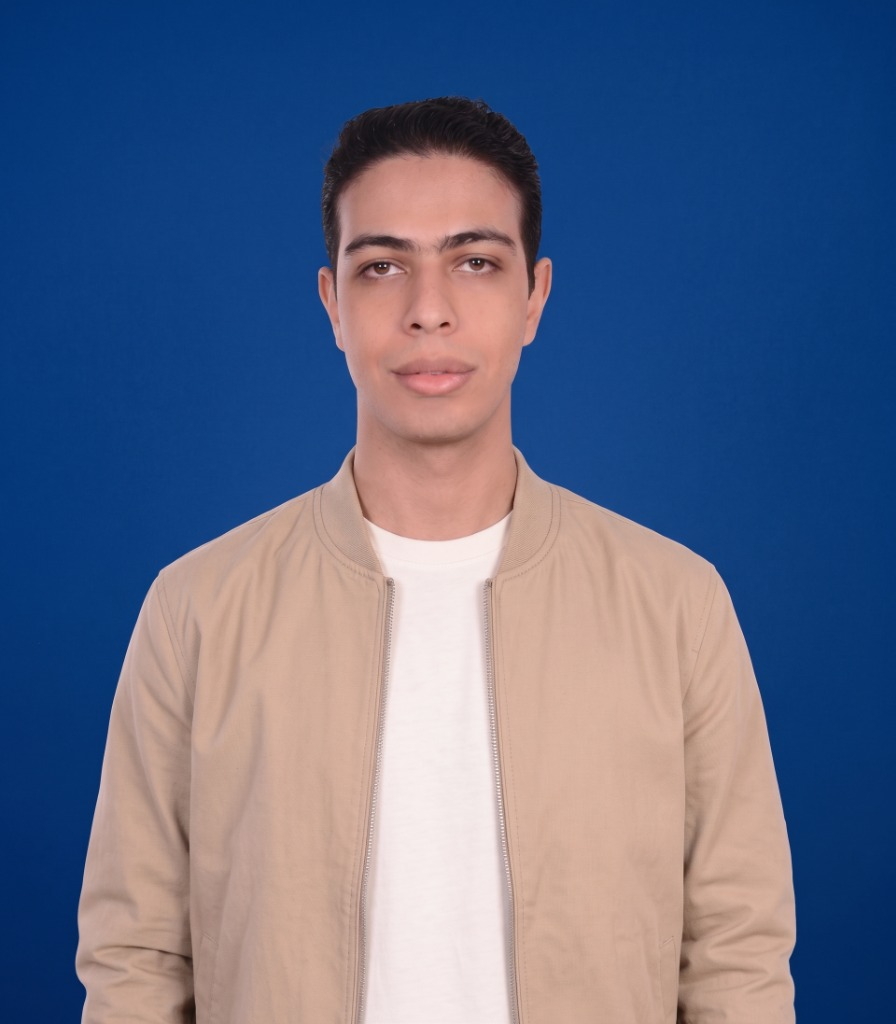
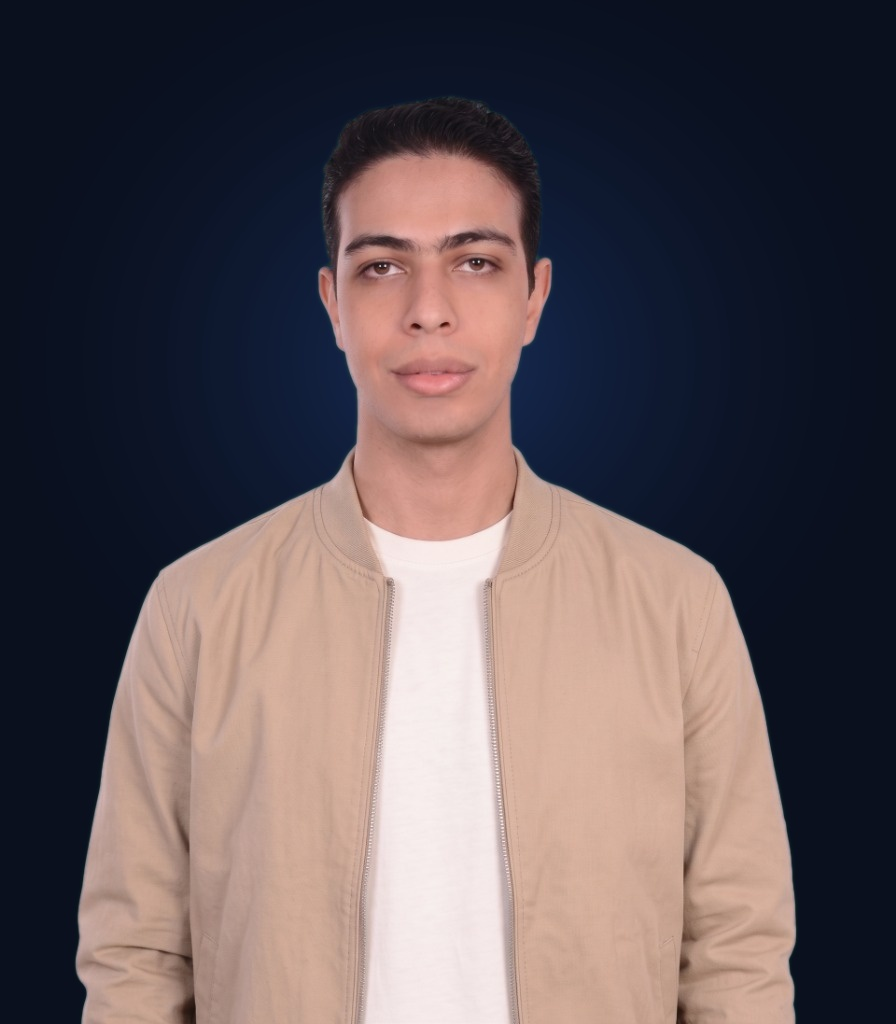
feat(hero): replace passport blue backdrop with executive studio lighting portrait and clean minimal frame

diff --git a/src/components/Hero.tsx b/src/components/Hero.tsx
@@ -154,76 +154,45 @@ export const Hero: React.FC<HeroProps> = ({ onOpenRecruiter, onOpenResume }) => 
 
           </motion.div>
 
-          {/* Profile Photo Column - Modern Floating Composition */}
+          {/* Profile Photo Column - Clean Executive Studio Presentation */}
           <motion.div
             initial={{ opacity: 0, scale: 0.98 }}
             animate={{ opacity: 1, scale: 1 }}
             transition={{ duration: 0.35, ease: [0.16, 1, 0.3, 1] }}
-            className="lg:col-span-5 flex justify-center order-1 lg:order-2"
+            className="lg:col-span-5 flex flex-col items-center justify-center order-1 lg:order-2"
           >
-            <div className="relative w-72 sm:w-80 lg:w-[350px] transform-gpu">
+            <div className="relative w-72 sm:w-80 lg:w-[340px] transform-gpu">
               
-              {/* Subtle Tech Glow Behind */}
+              {/* Soft Ambient Glow Behind Photo */}
               <div
-                className="absolute -inset-3 rounded-[3rem] opacity-35 dark:opacity-45 pointer-events-none transform-gpu"
+                className="absolute -inset-2 rounded-3xl opacity-30 dark:opacity-40 pointer-events-none transform-gpu"
                 style={{
-                  background: 'radial-gradient(circle at 50% 50%, rgba(59,130,246,0.35) 0%, rgba(14,165,233,0.2) 50%, transparent 75%)',
+                  background: 'radial-gradient(circle at 50% 40%, rgba(59,130,246,0.3) 0%, rgba(37,99,235,0.15) 50%, transparent 75%)',
                 }}
               />
-
-              {/* Floating Orbit Chip 1 (Top Corner) */}
-              <motion.div
-                initial={{ opacity: 0, y: -10 }}
-                animate={{ opacity: 1, y: 0 }}
-                transition={{ duration: 0.4, delay: 0.15 }}
-                className="absolute -top-3.5 -end-3 z-20 hidden sm:flex items-center gap-2 px-3.5 py-1.5 rounded-xl bg-slate-900/90 dark:bg-slate-950/90 backdrop-blur-md border border-sky-400/30 text-white shadow-xl"
-              >
-                <span className="w-2 h-2 rounded-full bg-sky-400 animate-ping shrink-0" />
-                <span className="text-xs font-bold font-mono tracking-tight text-sky-200">
-                  ⚡ LLMs & Healthcare RAG
-                </span>
-              </motion.div>
-
-              {/* Floating Orbit Chip 2 (Bottom Corner) */}
-              <motion.div
-                initial={{ opacity: 0, y: 10 }}
-                animate={{ opacity: 1, y: 0 }}
-                transition={{ duration: 0.4, delay: 0.2 }}
-                className="absolute -bottom-3.5 -start-3 z-20 hidden sm:flex items-center gap-2 px-3.5 py-1.5 rounded-xl bg-slate-900/90 dark:bg-slate-950/90 backdrop-blur-md border border-amber-400/30 text-white shadow-xl"
-              >
-                <Award className="w-3.5 h-3.5 text-amber-400 shrink-0" />
-                <span className="text-xs font-bold font-mono tracking-tight text-amber-200">
-                  {language === 'ar' ? '🏆 امتياز NTI (98%)' : '🏆 NTI 98% Distinction'}
-                </span>
-              </motion.div>
               
-              {/* Main Photo Card in High-End Modern Squircle */}
-              <div className="relative rounded-[2.5rem] overflow-hidden border-2 border-blue-500/30 dark:border-blue-500/40 bg-white dark:bg-slate-950 shadow-2xl p-1.5">
-                <div className="rounded-[2.2rem] overflow-hidden relative">
-                  <img
-                    src="/images/profile.jpg"
-                    alt={personalData.name[language]}
-                    className="w-full h-auto aspect-[4/5] object-cover object-top hover:scale-102 transition-transform duration-500"
-                  />
+              {/* Clean, Refined Portrait Frame (No Clutter, No Cutoffs) */}
+              <div className="relative rounded-3xl overflow-hidden border border-slate-200 dark:border-slate-800/80 bg-slate-950 shadow-2xl transition-all hover:border-blue-500/40 group">
+                <img
+                  src="/images/profile.jpg"
+                  alt={personalData.name[language]}
+                  className="w-full h-auto aspect-[4/5] object-cover object-top transition-transform duration-500 group-hover:scale-[1.02]"
+                />
+              </div>
 
-                  {/* Gradient Shadow Vignette at bottom */}
-                  <div className="absolute inset-x-0 bottom-0 h-28 bg-gradient-to-t from-slate-950/90 via-slate-950/40 to-transparent pointer-events-none" />
-
-                  {/* Integrated Modern Status Bar */}
-                  <div className="absolute bottom-3 inset-x-3 flex items-center justify-between px-3.5 py-2 rounded-2xl bg-slate-950/80 backdrop-blur-md border border-slate-700/60 text-white shadow-lg">
-                    <div className="flex items-center gap-2">
-                      <span className="relative flex h-2.5 w-2.5">
-                        <span className="animate-ping absolute inline-flex h-full w-full rounded-full bg-emerald-400 opacity-75" />
-                        <span className="relative inline-flex rounded-full h-2.5 w-2.5 bg-emerald-500" />
-                      </span>
-                      <span className="text-xs font-bold text-slate-100">
-                        {language === 'ar' ? 'جاهز ومتاح للعمل الفوري' : 'Available for Immediate Hire'}
-                      </span>
-                    </div>
-                    <span className="text-[11px] font-mono font-extrabold text-blue-400 bg-blue-500/10 px-2 py-0.5 rounded-lg border border-blue-500/20">
-                      2026
-                    </span>
-                  </div>
+              {/* Elegant Status Pill Placed Cleanly Underneath Photo */}
+              <div className="mt-3.5 flex justify-center">
+                <div className="inline-flex items-center gap-2 px-3.5 py-1.5 rounded-full bg-white/90 dark:bg-slate-900/90 backdrop-blur-md border border-slate-200 dark:border-slate-800 text-xs font-semibold text-slate-800 dark:text-slate-200 shadow-sm">
+                  <span className="relative flex h-2 w-2">
+                    <span className="animate-ping absolute inline-flex h-full w-full rounded-full bg-emerald-400 opacity-75" />
+                    <span className="relative inline-flex rounded-full h-2 w-2 bg-emerald-500" />
+                  </span>
+                  <span>
+                    {language === 'ar' ? 'جاهز ومتاح للعمل الفوري' : 'Available for Immediate AI Roles'}
+                  </span>
+                  <span className="text-[11px] font-mono text-blue-600 dark:text-blue-400 font-bold border-s border-slate-300 dark:border-slate-700 ps-2 ms-0.5">
+                    2026
+                  </span>
                 </div>
               </div>
 
